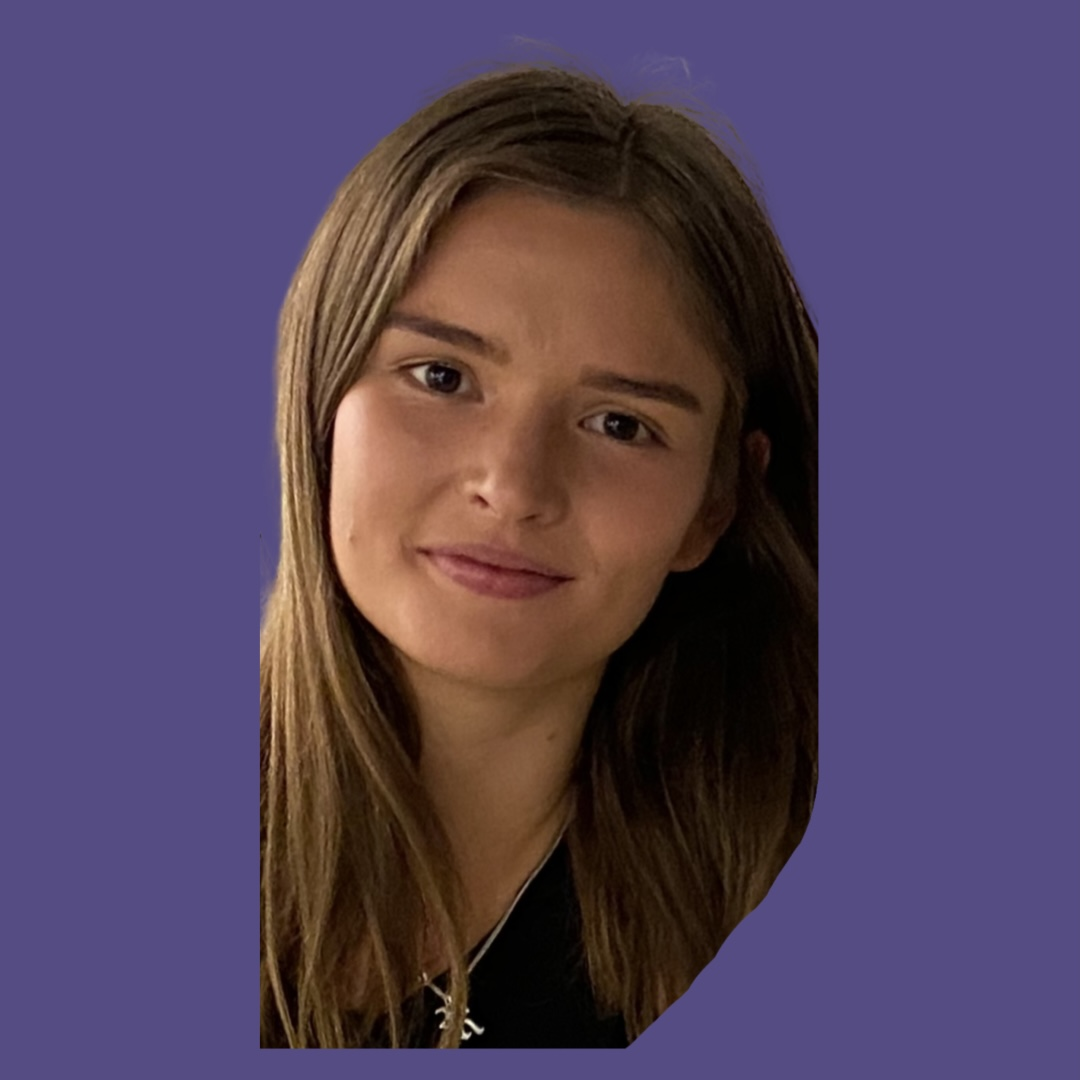
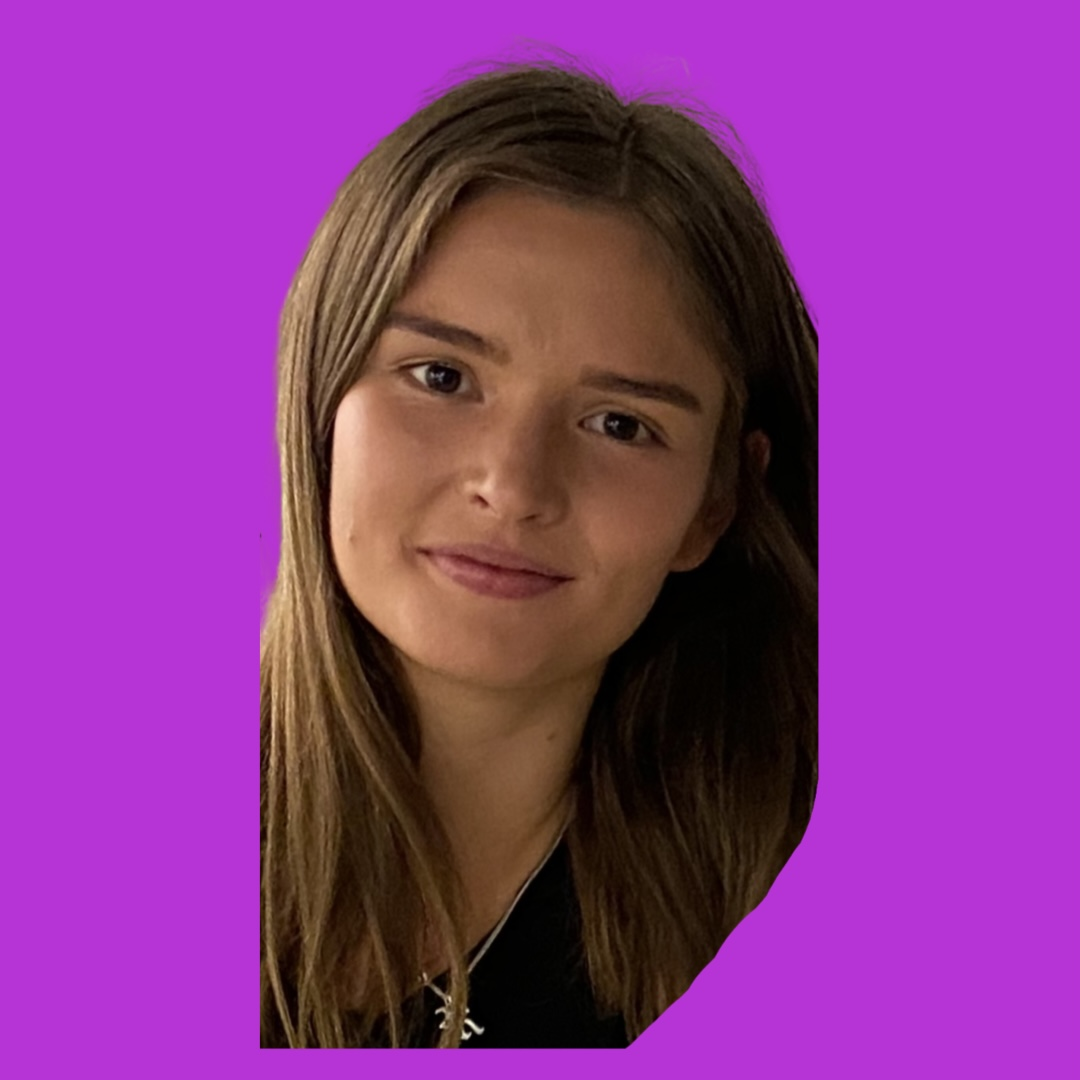
done all woohoo

diff --git a/client/src/components/Navbar/Navbar.js b/client/src/components/Navbar/Navbar.js
@@ -1,13 +1,12 @@
 import React, { useState, useEffect } from 'react';
-import { AppBar, Typography, Toolbar, Avatar, Button } from '@material-ui/core';
+import {  Typography, Toolbar, Avatar, Button } from '@material-ui/core';
 import { Link, useHistory, useLocation } from 'react-router-dom';
 import { useDispatch } from 'react-redux';
 import decode from 'jwt-decode';
 import "./NavBar.css";
-import memoriesLogo from '../../images/memoriesLogo.png';
-import memoriesText from '../../images/memoriesText.png';
 import * as actionType from '../../constants/actionTypes';
 import useStyles from './styles';
+import { FaWrench , FaTimes, FaBars } from 'react-icons/fa'
 
 const Navbar = () => {
   const [click, setClick] = useState(false);
@@ -46,14 +45,14 @@ const Navbar = () => {
      <div className='navbar-container'>
      <Link to='/' className='navbar-logo' onClick={closeMobileMenu}>
             MechaProjects
-            <i class='fas fa-wrench' />
+          <FaWrench/>
           </Link>
           <div className='menu-icon' onClick={handleClick}>
-            <i className={click ? 'fas fa-times' : 'fas fa-bars'} />
+            {click ? (<FaTimes color='white'/>) : (<FaBars color='white'/>)} 
           </div>
           <ul className={click ? 'nav-menu active' : 'nav-menu'}>
             <li className='nav-item'>
-              <Link to='/projects' className='nav-links' onClick={closeMobileMenu}>
+              <Link to='/posts' className='nav-links' onClick={closeMobileMenu}>
               Projects
               </Link>
             </li>
@@ -74,10 +73,10 @@ const Navbar = () => {
           <div className={classes.profile}>
             <Avatar className={classes.purple} alt={user?.result.name} src={user?.result.imageUrl}>{user?.result.name.charAt(0)}</Avatar>
             <Typography className={classes.userName} variant="h6">{user?.result.name}</Typography>
-            <Button variant="contained" className={classes.logout} color="secondary" onClick={logout}>Logout</Button>
+            <Button variant="contained" className={classes.logout} style ={{backgroundColor:"#c721dd", color: "#f4f4f4"}} onClick={logout}>Logout</Button>
           </div>
         ) : (
-          <Button component={Link} to="/auth" variant="contained" color="primary">Sign In</Button>
+          <Button component={Link} to="/auth" onClick={closeMobileMenu} variant="contained" style ={{backgroundColor:"#c721dd", color: "#f4f4f4"}}>Sign In</Button>
         )}
       </Toolbar>
       </ul>

diff --git a/client/src/components/Form/Form.js b/client/src/components/Form/Form.js
@@ -59,23 +59,14 @@ const Form = ({ currentId, setCurrentId }) => {
   return (
     <Paper className={classes.paper} elevation={6}>
       <form autoComplete="off" noValidate className={`${classes.root} ${classes.form}`} onSubmit={handleSubmit}>
-        <Typography variant="h6">{currentId ? `Editing "${post?.title}"` : 'Creating a Memory'}</Typography>
+        <Typography variant="h6">{currentId ? `Editing "${post?.title}"` : 'Creating a Project'}</Typography>
         <TextField name="title" variant="outlined" label="Title" fullWidth value={postData.title} onChange={(e) => setPostData({ ...postData, title: e.target.value })} />
         <TextField name="message" variant="outlined" label="Message" fullWidth multiline rows={4} value={postData.message} onChange={(e) => setPostData({ ...postData, message: e.target.value })} />
         <div style={{ padding: '5px 0', width: '94%' }}>
-          <ChipInput
-            name="tags"
-            variant="outlined"
-            label="Tags"
-            fullWidth
-            value={postData.tags}
-            onAdd={(chip) => handleAddChip(chip)}
-            onDelete={(chip) => handleDeleteChip(chip)}
-          />
         </div>
         <div className={classes.fileInput}><FileBase type="file" multiple={false} onDone={({ base64 }) => setPostData({ ...postData, selectedFile: base64 })} /></div>
-        <Button className={classes.buttonSubmit} variant="contained" color="primary" size="large" type="submit" fullWidth>Submit</Button>
-        <Button variant="contained" color="secondary" size="small" onClick={clear} fullWidth>Clear</Button>
+        <Button className={classes.buttonSubmit} variant="contained" style ={{backgroundColor:"#c721dd", color: "#f4f4f4"}} size="large" type="submit" fullWidth>Submit</Button>
+        <Button variant="contained" style ={{color:"#757373"}} size="small" onClick={clear} fullWidth>Clear</Button>
       </form>
     </Paper>
   );

diff --git a/client/src/components/PostDetails/PostDetails.jsx b/client/src/components/PostDetails/PostDetails.jsx
@@ -37,7 +37,6 @@ const Post = () => {
     );
   }
 
-  const recommendedPosts = posts.filter(({ _id }) => _id !== post._id);
 
   return (
     <Paper style={{ padding: '20px', borderRadius: '15px' }} elevation={6}>
@@ -58,9 +57,6 @@ const Post = () => {
             </Link>
           </Typography>
           <Typography variant="body1">{moment(post.createdAt).fromNow()}</Typography>
-          <Divider style={{ margin: '20px 0' }} />
-          <Typography variant="body1"><strong>Realtime Chat - coming soon!</strong></Typography>
-          <Divider style={{ margin: '20px 0' }} />
           <CommentSection post={post} />
           <Divider style={{ margin: '20px 0' }} />
         </div>
@@ -68,23 +64,6 @@ const Post = () => {
           <img className={classes.media} src={post.selectedFile || 'https://user-images.githubusercontent.com/194400/49531010-48dad180-f8b1-11e8-8d89-1e61320e1d82.png'} alt={post.title} />
         </div>
       </div>
-      {!!recommendedPosts.length && (
-        <div className={classes.section}>
-          <Typography gutterBottom variant="h5">You might also like:</Typography>
-          <Divider />
-          <div className={classes.recommendedPosts}>
-            {recommendedPosts.map(({ title, name, message, likes, selectedFile, _id }) => (
-              <div style={{ margin: '20px', cursor: 'pointer' }} onClick={() => openPost(_id)} key={_id}>
-                <Typography gutterBottom variant="h6">{title}</Typography>
-                <Typography gutterBottom variant="subtitle2">{name}</Typography>
-                <Typography gutterBottom variant="subtitle2">{message}</Typography>
-                <Typography gutterBottom variant="subtitle1">Likes: {likes.length}</Typography>
-                <img src={selectedFile} width="200px" />
-              </div>
-            ))}
-          </div>
-        </div>
-      )}
     </Paper>
   );
 };

diff --git a/client/src/components/Pages/Projects/Projects.js b/client/src/components/Pages/Projects/Projects.js
@@ -54,16 +54,9 @@ const Home = () => {
           </Grid>
           <Grid item xs={12} sm={6} md={3}>
             <AppBar className={classes.appBarSearch} position="static" color="inherit">
-              <TextField onKeyDown={handleKeyPress} name="search" variant="outlined" label="Search Memories" fullWidth value={search} onChange={(e) => setSearch(e.target.value)} />
-              <ChipInput
-                style={{ margin: '10px 0' }}
-                value={tags}
-                onAdd={(chip) => handleAddChip(chip)}
-                onDelete={(chip) => handleDeleteChip(chip)}
-                label="Search Tags"
-                variant="outlined"
-              />
-              <Button onClick={searchPost} className={classes.searchButton} variant="contained" color="primary">Search</Button>
+              <TextField style={{ margin: '10px 0' }} onKeyDown={handleKeyPress} name="search" variant="outlined" label="Search Projects" fullWidth value={search} onChange={(e) => setSearch(e.target.value)} />
+           
+              <Button onClick={searchPost} className={classes.searchButton} variant="contained" style ={{backgroundColor:"#c721dd", color: "#f4f4f4"}}>Search</Button>
             </AppBar>
             <Form currentId={currentId} setCurrentId={setCurrentId} />
             {(!searchQuery && !tags.length) && (

diff --git a/client/src/App.js b/client/src/App.js
@@ -7,6 +7,8 @@ import Navbar from './components/Navbar/Navbar';
 import Home from './components/Pages/Home/Home';
 import Auth from './components/Auth/Auth';
 import CreatorOrTag from './components/CreatorOrTag/CreatorOrTag';
+import Projects from './components/Pages/Projects/Projects';
+import AboutUs from './components/Pages/AboutUs/AboutUs'
 
 const App = () => {
   const user = JSON.parse(localStorage.getItem('profile'));
@@ -16,9 +18,11 @@ const App = () => {
       <Container maxWidth="xl">
         <Navbar />
         <Switch>
-          <Route path="/" exact component={() => <Redirect to="/posts" />} />
-          <Route path="/posts" exact component={Home} />
-          <Route path="/posts/search" exact component={Home} />
+           <Route path="/" exact component={() => <Redirect to="/home" />} />
+          <Route path="/home" exact component={Home} />
+          <Route exact path ="/posts" exact component ={Projects}/>
+          <Route exact path ="/aboutUs" exact component= {AboutUs}/>
+          <Route path="/posts/search" exact component={Projects} />
           <Route path="/posts/:id" exact component={PostDetails} />
           <Route path={['/creators/:name', '/tags/:name']} component={CreatorOrTag} />
           <Route path="/auth" exact component={() => (!user ? <Auth /> : <Redirect to="/posts" />)} />

diff --git a/client/src/components/Pages/AboutUs/AboutUs.js b/client/src/components/Pages/AboutUs/AboutUs.js
@@ -1,11 +1,11 @@
 import React from 'react';
 import { Container, AppBar, Typography} from '@material-ui/core';
-import spanner from '../images/BlackSpanner.png';
-import useStyles from './styles';
-import useStylesAboutUs from './AboutUsStyle.js';
-import Christos from '../images/Christos.jpg';
-import Ruby from '../images/Ruby.jpg';
-import Leo from '../images/Leo.jpg';
+import spanner from '/Users/rubyosborne/forreal/client/src/images/BlackSpanner.png';
+import useStyles from '/Users/rubyosborne/forreal/client/src/components/Pages/AboutUs/styles.js';
+import useStylesAboutUs from '/Users/rubyosborne/forreal/client/src/components/Pages/AboutUs/AboutUsStyle.js';
+import Christos from '/Users/rubyosborne/forreal/client/src/images/Christos.jpg';
+import Ruby from '/Users/rubyosborne/forreal/client/src/images/Ruby.jpg';
+import Leo from '/Users/rubyosborne/forreal/client/src/images/Leo.jpg';
 
 function AboutUs() {
     const classes = useStyles();

diff --git a/client/public/index.html b/client/public/index.html
@@ -6,12 +6,11 @@
     <meta name="theme-color" content="#000000" />
     <meta name="description" content="A collection of projects" />
     <link rel="icon" type="image/png" href="./BlackSpanner.png">
-    <link rel="stylesheet" href="https://use.fontawesome.com/releases/v5.15.4/css/all.css" integrity="sha384-DyZ88mC6Up2uqS4h/KRgHuoeGwBcD4Ng9SiP4dIRy0EXTlnuz47vAwmeGwVChigm" crossorigin="anonymous">
     <link rel="preconnect" href="https://fonts.googleapis.com">
     <link rel="preconnect" href="https://fonts.gstatic.com">
     <link href="https://fonts.googleapis.com/css2?family=Heebo:wght@300;400;700&display=swap" rel="stylesheet">
     <link href="https://fonts.googleapis.com/css2?family=Nunito&display=swap" rel="stylesheet">
-    <title>MechaProjects</title>
+   <title>MechaProjects</title>
   </head>
   <body>
     <div id="root"></div>

diff --git a/client/src/components/Posts/Post/Post.js b/client/src/components/Posts/Post/Post.js
@@ -86,11 +86,11 @@ const Post = ({ post, setCurrentId }) => {
         </CardContent>
       </ButtonBase>
       <CardActions className={classes.cardActions}>
-        <Button size="small" color="primary" disabled={!user?.result} onClick={handleLike}>
+        <Button size="small" style ={{color:"#c721dd"}} disabled={!user?.result} onClick={handleLike}>
           <Likes />
         </Button>
         {(user?.result?.googleId === post?.creator || user?.result?._id === post?.creator) && (
-          <Button size="small" color="secondary" onClick={() => dispatch(deletePost(post._id))}>
+          <Button size="small" style ={{color:"#757373"}} onClick={() => dispatch(deletePost(post._id))}>
             <DeleteIcon fontSize="small" /> &nbsp; Delete
           </Button>
         )}

diff --git a/client/src/components/PostDetails/CommentSection.jsx b/client/src/components/PostDetails/CommentSection.jsx
@@ -39,7 +39,7 @@ const CommentSection = ({ post }) => {
           <Typography gutterBottom variant="h6">Write a comment</Typography>
           <TextField fullWidth rows={4} variant="outlined" label="Comment" multiline value={comment} onChange={(e) => setComment(e.target.value)} />
           <br />
-          <Button style={{ marginTop: '10px' }} fullWidth disabled={!comment.length} color="primary" variant="contained" onClick={handleComment}>
+          <Button style={{ marginTop: '10px' }} fullWidth disabled={!comment.length} style ={{color:"#757373"}} variant="contained" onClick={handleComment}>
             Comment
           </Button>
         </div>

diff --git a/client/src/components/Pages/Home/Home.css b/client/src/components/Pages/Home/Home.css
@@ -2,8 +2,10 @@ video{
   object-fit: cover;
   width: 100%;
   height: 100%;
-  position: fixed;
   z-index: -1;
+  align-items: center;
+
+  position: sticky;
 }
 
 .home-page {
@@ -13,6 +15,7 @@ flex-direction: column;
 align-items: center;
 object-fit: contains;
 justify-content: center;
+
 }
 
 .home-page > h1{
@@ -23,7 +26,7 @@ color: #fff;
 font-family: 'Trebuchet MS', 'Lucida Sans Unicode', 'Lucida Grande', 'Lucida Sans', Arial, sans-serif ;
 position: absolute;
 top: 45%;
-left: 12%;
+left: 6%;
 font-weight: bolder;
 text-shadow:rgb(66, 63, 63) 2px 2px;
 

diff --git a/client/src/components/Pages/AboutUs/AboutUsStyle.js b/client/src/components/Pages/AboutUs/AboutUsStyle.js
@@ -12,16 +12,19 @@ export default makeStyles(() => ({
     alignItems: 'center',
     backgroundColor: 'white',
     padding: 15,
-    fontFamily:"'Nunito', 'sans-serif'"
+    fontFamily:"'Nunito', 'sans-serif'",
+    boxShadow: "3px 3px 3px 3px #9E9E9E"
   },
   photos: {
       display:'flex',
       flexDirection: 'row',
       height: 200,
       justifyContent: 'space-around',
+      width:'100%'
   },
   photo: {
-    borderRadius:25
+    borderRadius:25,
+    height: '25vh'
   }
 
 }));

diff --git a/client/src/components/Pages/AboutUs/styles.js b/client/src/components/Pages/AboutUs/styles.js
@@ -1,0 +1,12 @@
+import { makeStyles } from '@material-ui/core/styles';
+
+export default makeStyles(() => ({
+  appBar: {
+    borderRadius: 15,
+    margin: '30px 0',
+    display: 'flex',
+    flexDirection: 'row',
+    justifyContent: 'center',
+    alignItems: 'center',
+  },
+}));
